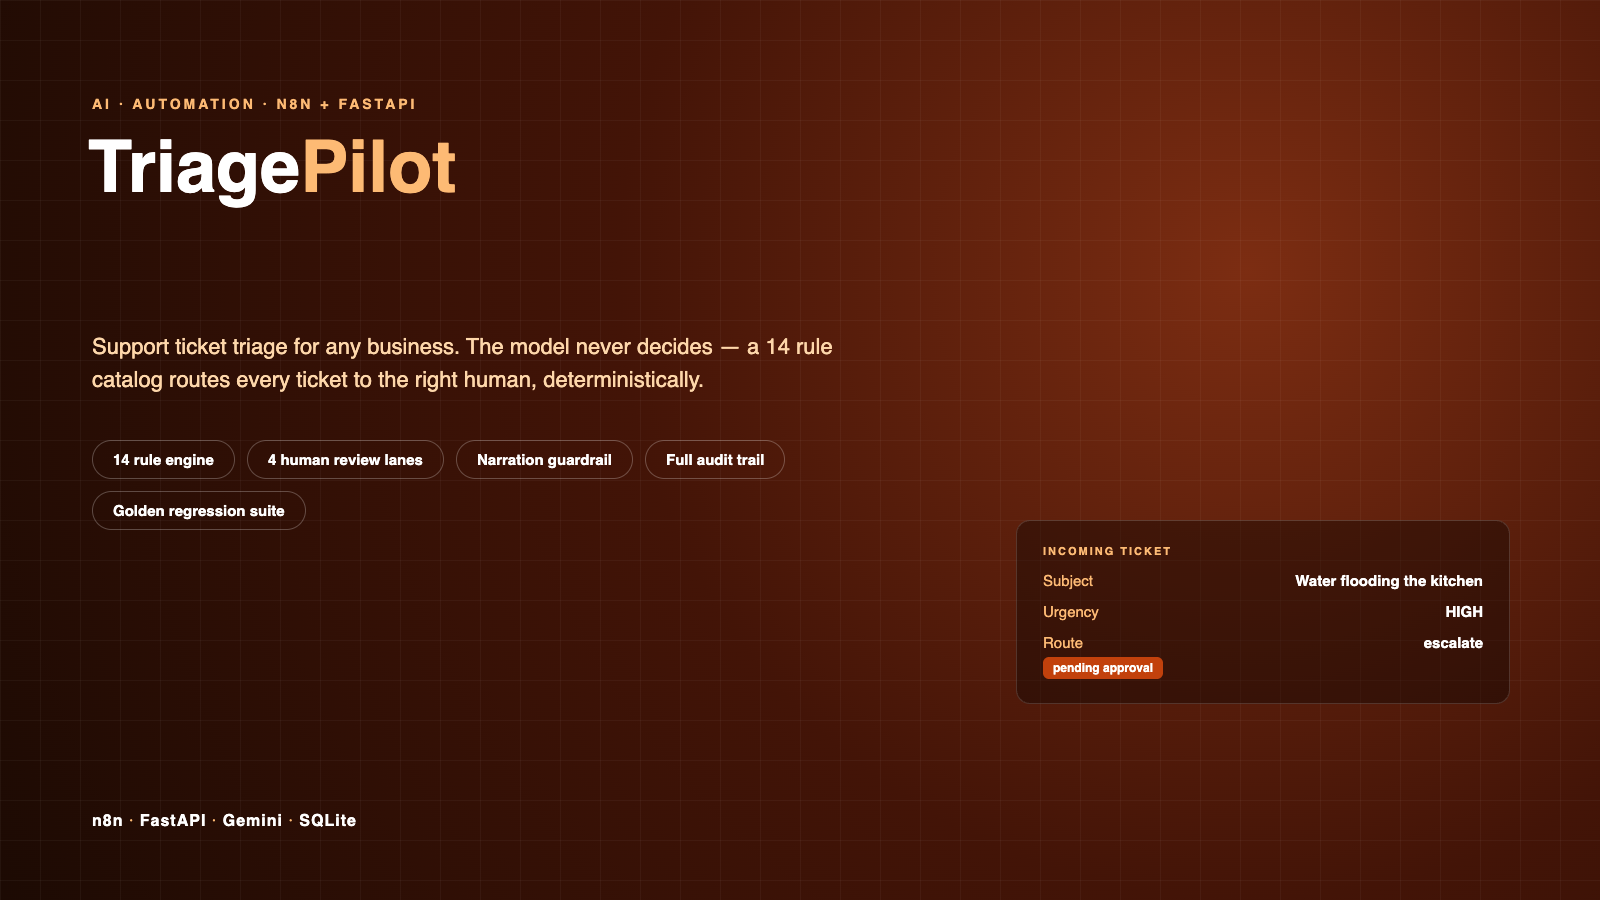
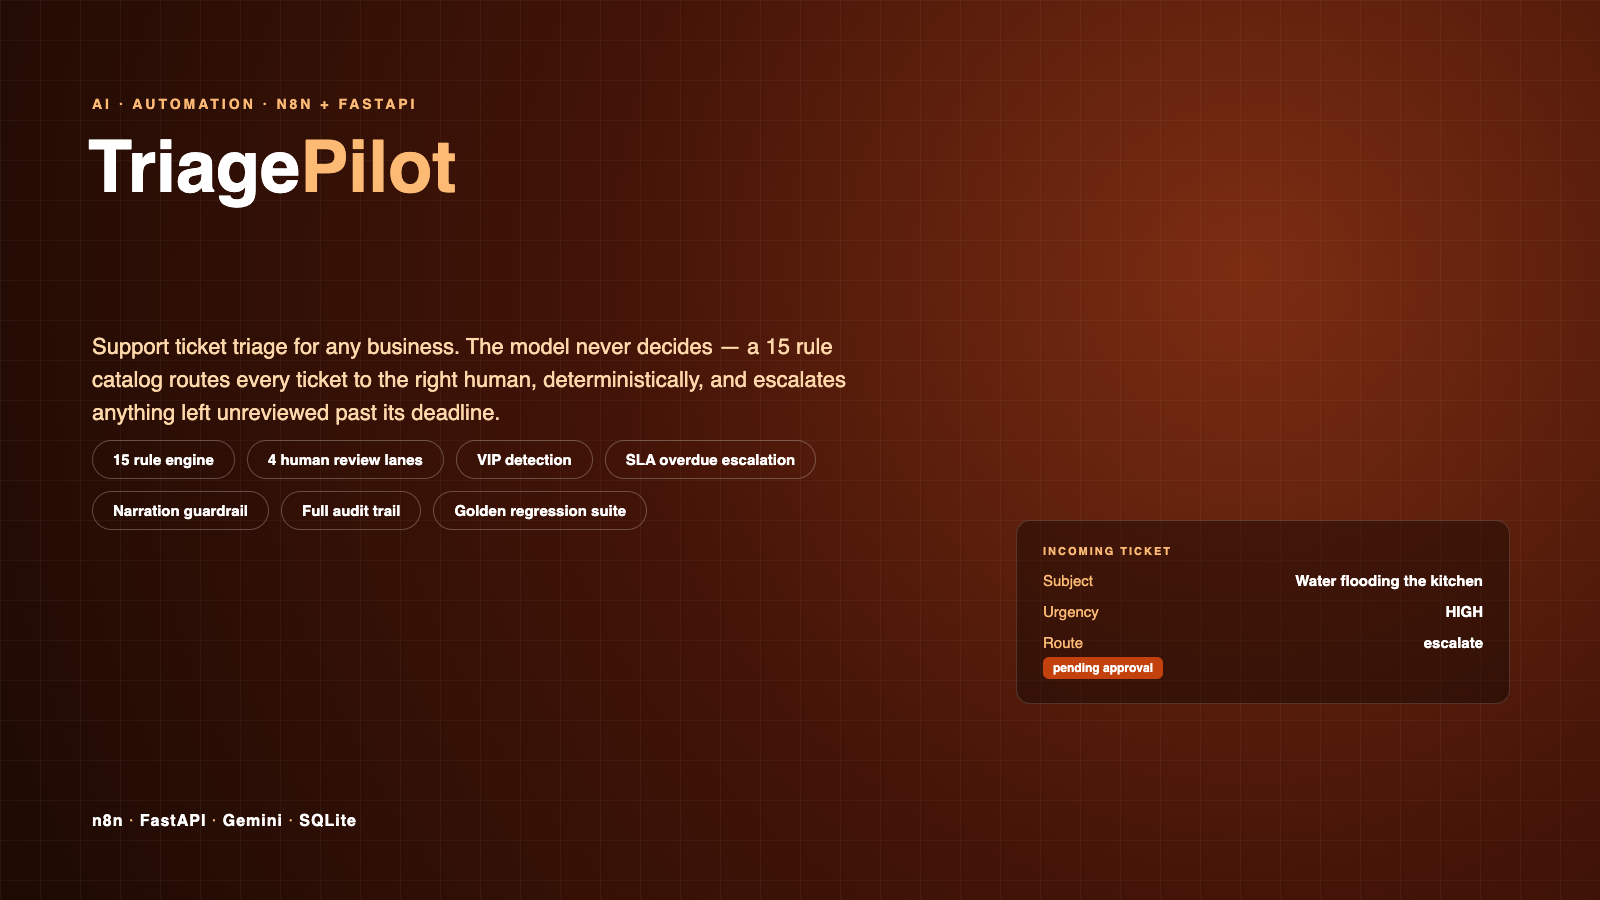
Add VIP customer detection and SLA overdue escalation
New rule V01: a configured VIP email list always gets manager review, deterministic,
same pattern as the other 14 rules. New: every decision gets an SLA deadline by route
(30 min escalate, 4 hr billing/manager review, 24 hr routine); a third n8n trigger, a
Schedule Trigger every 15 minutes, checks GET /overdue and escalates what a human
hasn't reviewed in time via POST /escalate-overdue/{ticket_id}.

17 tests passing (was 11). n8n workflow now 32 nodes (26 functional + 6 sticky notes),
three real entry points on one canvas. Cover and ERD regenerated from the real schema.

diff --git a/docs/erd-real.html b/docs/erd-real.html
@@ -17,7 +17,7 @@
 </style></head>
 <body>
   <div class="title">TriagePilot <span>&mdash; database schema</span></div>
-  <div class="subtitle">Auto-generated from the live schema (app/store.py) &middot; 4 tables &middot; 27 columns</div>
+  <div class="subtitle">Auto-generated from the live schema (app/store.py) &middot; 4 tables &middot; 28 columns</div>
   <svg width="1600" height="900"><defs><marker id="arrow" markerWidth="8" markerHeight="8" refX="6" refY="3" orient="auto"><path d="M0,0 L6,3 L0,6 Z" fill="#c2410c"/></marker></defs><line x1="430" y1="154" x2="50" y2="154" stroke="#c2410c" stroke-width="2" stroke-dasharray="4 3" marker-end="url(#arrow)"/><line x1="810" y1="154" x2="50" y2="154" stroke="#c2410c" stroke-width="2" stroke-dasharray="4 3" marker-end="url(#arrow)"/><line x1="810" y1="514" x2="50" y2="154" stroke="#c2410c" stroke-width="2" stroke-dasharray="4 3" marker-end="url(#arrow)"/></svg>
-  <div class="table-card" id="tbl-tickets" style="left:40px;top:120px"><div class="table-header">tickets</div><div class="row"><span class="badge pk">PK</span><span class="col-name">ticket_id</span><span class="col-type">text</span></div><div class="row"><span class="badge "></span><span class="col-name">customer_name</span><span class="col-type">text</span></div><div class="row"><span class="badge "></span><span class="col-name">customer_email</span><span class="col-type">text</span></div><div class="row"><span class="badge "></span><span class="col-name">subject</span><span class="col-type">text</span></div><div class="row"><span class="badge "></span><span class="col-name">message</span><span class="col-type">text</span></div><div class="row"><span class="badge "></span><span class="col-name">received_at</span><span class="col-type">text</span></div></div><div class="table-card" id="tbl-decisions" style="left:420px;top:120px"><div class="table-header">decisions</div><div class="row"><span class="badge pk">PK</span><span class="col-name">ticket_id</span><span class="col-type">text</span></div><div class="row"><span class="badge "></span><span class="col-name">urgency</span><span class="col-type">text</span></div><div class="row"><span class="badge "></span><span class="col-name">topic</span><span class="col-type">text</span></div><div class="row"><span class="badge "></span><span class="col-name">route</span><span class="col-type">text</span></div><div class="row"><span class="badge "></span><span class="col-name">draft_reply</span><span class="col-type">text</span></div><div class="row"><span class="badge "></span><span class="col-name">confidence</span><span class="col-type">real</span></div><div class="row"><span class="badge "></span><span class="col-name">reason_codes</span><span class="col-type">text</span></div><div class="row"><span class="badge "></span><span class="col-name">status</span><span class="col-type">text</span></div><div class="row"><span class="badge "></span><span class="col-name">created_at</span><span class="col-type">text</span></div></div><div class="table-card" id="tbl-rule_results" style="left:800px;top:120px"><div class="table-header">rule_results</div><div class="row"><span class="badge pk">PK</span><span class="col-name">id</span><span class="col-type">integer</span></div><div class="row"><span class="badge fk">FK</span><span class="col-name">ticket_id</span><span class="col-type">text</span></div><div class="row"><span class="badge "></span><span class="col-name">rule_id</span><span class="col-type">text</span></div><div class="row"><span class="badge "></span><span class="col-name">category</span><span class="col-type">text</span></div><div class="row"><span class="badge "></span><span class="col-name">status</span><span class="col-type">text</span></div><div class="row"><span class="badge "></span><span class="col-name">message</span><span class="col-type">text</span></div><div class="row"><span class="badge "></span><span class="col-name">reason_code</span><span class="col-type">text</span></div></div><div class="table-card" id="tbl-human_reviews" style="left:800px;top:480px"><div class="table-header">human_reviews</div><div class="row"><span class="badge pk">PK</span><span class="col-name">id</span><span class="col-type">integer</span></div><div class="row"><span class="badge fk">FK</span><span class="col-name">ticket_id</span><span class="col-type">text</span></div><div class="row"><span class="badge "></span><span class="col-name">action</span><span class="col-type">text</span></div><div class="row"><span class="badge "></span><span class="col-name">note</span><span class="col-type">text</span></div><div class="row"><span class="badge "></span><span class="col-name">reviewed_at</span><span class="col-type">text</span></div></div>
+  <div class="table-card" id="tbl-tickets" style="left:40px;top:120px"><div class="table-header">tickets</div><div class="row"><span class="badge pk">PK</span><span class="col-name">ticket_id</span><span class="col-type">text</span></div><div class="row"><span class="badge "></span><span class="col-name">customer_name</span><span class="col-type">text</span></div><div class="row"><span class="badge "></span><span class="col-name">customer_email</span><span class="col-type">text</span></div><div class="row"><span class="badge "></span><span class="col-name">subject</span><span class="col-type">text</span></div><div class="row"><span class="badge "></span><span class="col-name">message</span><span class="col-type">text</span></div><div class="row"><span class="badge "></span><span class="col-name">received_at</span><span class="col-type">text</span></div></div><div class="table-card" id="tbl-decisions" style="left:420px;top:120px"><div class="table-header">decisions</div><div class="row"><span class="badge pk">PK</span><span class="col-name">ticket_id</span><span class="col-type">text</span></div><div class="row"><span class="badge "></span><span class="col-name">urgency</span><span class="col-type">text</span></div><div class="row"><span class="badge "></span><span class="col-name">topic</span><span class="col-type">text</span></div><div class="row"><span class="badge "></span><span class="col-name">route</span><span class="col-type">text</span></div><div class="row"><span class="badge "></span><span class="col-name">draft_reply</span><span class="col-type">text</span></div><div class="row"><span class="badge "></span><span class="col-name">confidence</span><span class="col-type">real</span></div><div class="row"><span class="badge "></span><span class="col-name">reason_codes</span><span class="col-type">text</span></div><div class="row"><span class="badge "></span><span class="col-name">status</span><span class="col-type">text</span></div><div class="row"><span class="badge "></span><span class="col-name">created_at</span><span class="col-type">text</span></div><div class="row"><span class="badge "></span><span class="col-name">sla_deadline</span><span class="col-type">text</span></div></div><div class="table-card" id="tbl-rule_results" style="left:800px;top:120px"><div class="table-header">rule_results</div><div class="row"><span class="badge pk">PK</span><span class="col-name">id</span><span class="col-type">integer</span></div><div class="row"><span class="badge fk">FK</span><span class="col-name">ticket_id</span><span class="col-type">text</span></div><div class="row"><span class="badge "></span><span class="col-name">rule_id</span><span class="col-type">text</span></div><div class="row"><span class="badge "></span><span class="col-name">category</span><span class="col-type">text</span></div><div class="row"><span class="badge "></span><span class="col-name">status</span><span class="col-type">text</span></div><div class="row"><span class="badge "></span><span class="col-name">message</span><span class="col-type">text</span></div><div class="row"><span class="badge "></span><span class="col-name">reason_code</span><span class="col-type">text</span></div></div><div class="table-card" id="tbl-human_reviews" style="left:800px;top:480px"><div class="table-header">human_reviews</div><div class="row"><span class="badge pk">PK</span><span class="col-name">id</span><span class="col-type">integer</span></div><div class="row"><span class="badge fk">FK</span><span class="col-name">ticket_id</span><span class="col-type">text</span></div><div class="row"><span class="badge "></span><span class="col-name">action</span><span class="col-type">text</span></div><div class="row"><span class="badge "></span><span class="col-name">note</span><span class="col-type">text</span></div><div class="row"><span class="badge "></span><span class="col-name">reviewed_at</span><span class="col-type">text</span></div></div>
 </body></html>

diff --git a/docs/cover.html b/docs/cover.html
@@ -25,11 +25,14 @@
   <div class="grid"></div>
   <div class="eyebrow">AI &middot; AUTOMATION &middot; N8N + FASTAPI</div>
   <h1>Triage<span class="accent">Pilot</span></h1>
-  <div class="tagline">Support ticket triage for any business. The model never decides &mdash; a 14 rule
-    catalog routes every ticket to the right human, deterministically.</div>
+  <div class="tagline">Support ticket triage for any business. The model never decides &mdash; a 15 rule
+    catalog routes every ticket to the right human, deterministically, and escalates
+    anything left unreviewed past its deadline.</div>
   <div class="pills">
-    <div class="pill">14 rule engine</div>
+    <div class="pill">15 rule engine</div>
     <div class="pill">4 human review lanes</div>
+    <div class="pill">VIP detection</div>
+    <div class="pill">SLA overdue escalation</div>
     <div class="pill">Narration guardrail</div>
     <div class="pill">Full audit trail</div>
     <div class="pill">Golden regression suite</div>

diff --git a/app/store.py b/app/store.py
@@ -31,7 +31,8 @@ CREATE TABLE IF NOT EXISTS decisions (
     confidence REAL NOT NULL,
     reason_codes TEXT NOT NULL,
     status TEXT NOT NULL DEFAULT 'pending approval',
-    created_at TEXT NOT NULL
+    created_at TEXT NOT NULL,
+    sla_deadline TEXT NOT NULL DEFAULT ''
 );
 CREATE TABLE IF NOT EXISTS rule_results (
     id INTEGER PRIMARY KEY AUTOINCREMENT,
@@ -77,8 +78,8 @@ def save_ticket(ticket_id: str, ticket: Ticket) -> None:
 def save_decision(decision: Decision) -> None:
     with _connect() as conn:
         conn.execute(
-            "INSERT OR REPLACE INTO decisions (ticket_id, urgency, topic, route, draft_reply, confidence, reason_codes, created_at) "
-            "VALUES (?, ?, ?, ?, ?, ?, ?, ?)",
+            "INSERT OR REPLACE INTO decisions (ticket_id, urgency, topic, route, draft_reply, confidence, reason_codes, created_at, sla_deadline) "
+            "VALUES (?, ?, ?, ?, ?, ?, ?, ?, ?)",
             (
                 decision.ticket_id,
                 decision.urgency.value,
@@ -88,6 +89,7 @@ def save_decision(decision: Decision) -> None:
                 decision.confidence,
                 ",".join(decision.reason_codes),
                 decision.created_at,
+                decision.sla_deadline,
             ),
         )
         for r in decision.rule_results:
@@ -124,3 +126,21 @@ def get_decision(ticket_id: str) -> dict | None:
     with _connect() as conn:
         row = conn.execute("SELECT * FROM decisions WHERE ticket_id = ?", (ticket_id,)).fetchone()
         return dict(row) if row else None
+
+
+def get_overdue(now: datetime | None = None) -> list[dict]:
+    """Decisions still pending approval whose SLA deadline has already passed. The
+    third n8n trigger (a Schedule Trigger) polls this to escalate what a human hasn't
+    looked at in time."""
+    now = now or datetime.now(timezone.utc)
+    with _connect() as conn:
+        rows = conn.execute(
+            "SELECT * FROM decisions WHERE status = 'pending approval' AND sla_deadline != '' AND sla_deadline < ?",
+            (now.isoformat(),),
+        ).fetchall()
+        return [dict(r) for r in rows]
+
+
+def mark_escalated_overdue(ticket_id: str) -> None:
+    with _connect() as conn:
+        conn.execute("UPDATE decisions SET status = 'escalated overdue' WHERE ticket_id = ?", (ticket_id,))

diff --git a/app/main.py b/app/main.py
@@ -17,8 +17,8 @@ from app.llm.draft import draft_reply, guard_draft
 from app.llm.extract import extract_signals
 from app.models import Decision, HumanReview, Ticket
 from app.rules.catalog import CATALOG
-from app.rules.engine import decide_route, decide_urgency, run_rules
-from app.store import get_decision, had_recent_contact, save_decision, save_human_review, save_ticket
+from app.rules.engine import decide_route, decide_urgency, run_rules, sla_deadline
+from app.store import get_decision, get_overdue, had_recent_contact, mark_escalated_overdue, save_decision, save_human_review, save_ticket
 
 app = FastAPI(title="TriagePilot")
 
@@ -63,6 +63,7 @@ def triage(ticket: Ticket, x_service_key: Optional[str] = Header(default=None)) 
         confidence=signals.extraction_confidence,
         reason_codes=sorted(flagged),
         rule_results=rule_results,
+        sla_deadline=sla_deadline(route),
     )
     decision.draft_reply = guard_draft(draft, decision)
     save_decision(decision)
@@ -78,6 +79,23 @@ def human_review(ticket_id: str, review: HumanReview, x_service_key: Optional[st
         raise HTTPException(status_code=404, detail="no decision for that ticket_id")
     save_human_review(review)
     return {"ticket_id": ticket_id, "status": get_decision(ticket_id)["status"]}
+
+
+@app.get("/overdue")
+def overdue(x_service_key: Optional[str] = Header(default=None)) -> dict:
+    """Decisions still awaiting a human past their SLA deadline. The n8n Schedule
+    Trigger calls this, then escalates whatever comes back."""
+    _check_key(x_service_key)
+    return {"overdue": get_overdue()}
+
+
+@app.post("/escalate-overdue/{ticket_id}")
+def escalate_overdue(ticket_id: str, x_service_key: Optional[str] = Header(default=None)) -> dict:
+    _check_key(x_service_key)
+    if get_decision(ticket_id) is None:
+        raise HTTPException(status_code=404, detail="no decision for that ticket_id")
+    mark_escalated_overdue(ticket_id)
+    return {"ticket_id": ticket_id, "status": "escalated overdue"}
 
 
 @app.get("/golden/run")

diff --git a/app/rules/engine.py b/app/rules/engine.py
@@ -1,15 +1,28 @@
 """Deterministic decision engine. Runs the rule catalog and turns the results into a
-route and an urgency. The routing is transparent and rule driven; the LLM's only job
-elsewhere is to extract signals and draft a reply, never to decide either one.
+route, an urgency, and an SLA deadline. The routing is transparent and rule driven;
+the LLM's only job elsewhere is to extract signals and draft a reply, never to decide
+any of this.
 """
 
 from __future__ import annotations
 
+from datetime import datetime, timedelta, timezone
+
 from app.models import ExtractedSignals, Route, RuleResult, Status, Ticket, Urgency
 from app.rules.catalog import CATALOG
 
+# How long a ticket may sit in each lane before it counts as overdue. An emergency
+# that nobody has looked at in 30 minutes is a real operational failure worth
+# surfacing automatically, the same reasoning as any support SLA.
+_SLA_MINUTES = {
+    Route.ESCALATE: 30,
+    Route.BILLING_REVIEW: 240,
+    Route.MANAGER_REVIEW: 240,
+    Route.AUTO_DRAFT: 1440,
+}
+
 _ESCALATE_RULES = {"E01", "E02"}
-_MANAGER_RULES = {"L01", "L02", "R01", "C01", "C02"}
+_MANAGER_RULES = {"L01", "L02", "R01", "C01", "C02", "V01"}
 _BILLING_RULES = {"M01", "M02", "M03", "M04"}
 _TONE_RULES = {"S01", "S02"}
 
@@ -49,3 +62,8 @@ def decide_urgency(flagged_ids: set[str]) -> Urgency:
     if flagged_ids & (_MANAGER_RULES | _BILLING_RULES) or len(flagged_ids & _TONE_RULES) == 2:
         return Urgency.MEDIUM
     return Urgency.LOW
+
+
+def sla_deadline(route: Route, now: datetime | None = None) -> str:
+    now = now or datetime.now(timezone.utc)
+    return (now + timedelta(minutes=_SLA_MINUTES[route])).isoformat()

diff --git a/tests/test_rules.py b/tests/test_rules.py
@@ -61,3 +61,25 @@ def test_escalate_outranks_billing_in_the_same_ticket():
     t = _ticket(message="Emergency! Also please refund the $200 I was overcharged.")
     flagged = {r.rule_id for r in run_rules(t, _signals(mentions_emergency=True, mentions_money=True), repeat_contact=False) if r.status.value == "flag"}
     assert decide_route(flagged).value == "escalate"
+
+
+def test_vip_customer_always_gets_manager_review(monkeypatch):
+    from app.config import get_settings
+
+    monkeypatch.setenv("VIP_EMAILS", "vip@example.com, other@example.com")
+    get_settings.cache_clear()
+    t = _ticket(customer_email="VIP@example.com")  # case should not matter
+    flagged = {r.rule_id for r in run_rules(t, _signals(), repeat_contact=False) if r.status.value == "flag"}
+    assert "V01" in flagged
+    assert decide_route(flagged).value == "manager_review"
+    get_settings.cache_clear()
+
+
+def test_non_vip_customer_is_not_flagged(monkeypatch):
+    from app.config import get_settings
+
+    monkeypatch.setenv("VIP_EMAILS", "vip@example.com")
+    get_settings.cache_clear()
+    flagged = {r.rule_id for r in run_rules(_ticket(), _signals(), repeat_contact=False) if r.status.value == "flag"}
+    assert "V01" not in flagged
+    get_settings.cache_clear()

diff --git a/app/rules/catalog.py b/app/rules/catalog.py
@@ -135,6 +135,15 @@ def _t01_topic_in_catalog(t: Ticket, s: ExtractedSignals, repeat: bool) -> "tupl
     return _ok()
 
 
+def _v01_vip_customer(t: Ticket, s: ExtractedSignals, repeat: bool) -> "tuple[Status, str]":
+    from app.config import get_settings
+
+    vip_list = {e.strip().lower() for e in get_settings().vip_emails.split(",") if e.strip()}
+    if t.customer_email.lower() in vip_list:
+        return _flag("Customer is on the configured VIP list.")
+    return _ok()
+
+
 CATALOG: list[Rule] = [
     Rule("E01", "emergency", "Explicit emergency language in the ticket text", "emergency_keyword", _e01_emergency_keywords),
     Rule("E02", "emergency", "Model read the ticket as describing an emergency", "emergency_signal", _e02_emergency_signal),
@@ -150,4 +159,5 @@ CATALOG: list[Rule] = [
     Rule("S01", "tone", "Model read the tone as angry", "angry_tone", _s01_angry_tone),
     Rule("S02", "tone", "All caps or repeated punctuation in the message", "shouting", _s02_shouting),
     Rule("T01", "topic", "Topic guess outside the configured category list", "topic_out_of_catalog", _t01_topic_in_catalog),
+    Rule("V01", "vip", "Customer is on the configured VIP list", "vip_customer", _v01_vip_customer),
 ]

diff --git a/tests/test_api.py b/tests/test_api.py
@@ -15,7 +15,7 @@ def test_rules_endpoint_lists_the_whole_catalog_with_no_key_needed():
     assert resp.status_code == 200
     rule_ids = {r["rule_id"] for r in resp.json()}
     assert "E01" in rule_ids and "R01" in rule_ids
-    assert len(rule_ids) == 14
+    assert len(rule_ids) == 15
 
 
 def test_triage_rejects_a_missing_or_wrong_service_key():
@@ -36,3 +36,15 @@ def test_human_review_rejects_mismatched_ticket_id():
         headers={"x-service-key": "test-key"},
     )
     assert resp.status_code == 400
+
+
+def test_overdue_needs_a_key_and_starts_empty_on_a_fresh_database():
+    assert client.get("/overdue").status_code == 401
+    resp = client.get("/overdue", headers={"x-service-key": "test-key"})
+    assert resp.status_code == 200
+    assert isinstance(resp.json()["overdue"], list)
+
+
+def test_escalate_overdue_404s_for_an_unknown_ticket():
+    resp = client.post("/escalate-overdue/does-not-exist", headers={"x-service-key": "test-key"})
+    assert resp.status_code == 404

diff --git a/tests/test_sla.py b/tests/test_sla.py
@@ -1,0 +1,19 @@
+from datetime import datetime, timedelta, timezone
+
+from app.models import Route
+from app.rules.engine import sla_deadline
+
+
+def test_escalate_has_the_shortest_deadline():
+    now = datetime(2026, 1, 1, tzinfo=timezone.utc)
+    deadlines = {route: datetime.fromisoformat(sla_deadline(route, now)) for route in Route}
+    assert deadlines[Route.ESCALATE] == now + timedelta(minutes=30)
+    assert deadlines[Route.ESCALATE] < deadlines[Route.BILLING_REVIEW]
+    assert deadlines[Route.ESCALATE] < deadlines[Route.MANAGER_REVIEW]
+    assert deadlines[Route.ESCALATE] < deadlines[Route.AUTO_DRAFT]
+
+
+def test_auto_draft_has_the_longest_deadline():
+    now = datetime(2026, 1, 1, tzinfo=timezone.utc)
+    deadlines = {route: datetime.fromisoformat(sla_deadline(route, now)) for route in Route}
+    assert deadlines[Route.AUTO_DRAFT] == max(deadlines.values())

diff --git a/app/config.py b/app/config.py
@@ -29,6 +29,8 @@ class Settings:
         self.business_name: str = os.getenv("BUSINESS_NAME", "Bright Smile Dental")
         self.business_type: str = os.getenv("BUSINESS_TYPE", "a dental clinic")
         self.categories: str = os.getenv("CATEGORIES", "appointments,billing,insurance,general,other")
+        # Comma separated emails that always get manager review, regardless of what the rules find.
+        self.vip_emails: str = os.getenv("VIP_EMAILS", "")
 
 
 @lru_cache

diff --git a/app/models.py b/app/models.py
@@ -66,6 +66,7 @@ class Decision(BaseModel):
     reason_codes: list[str]
     rule_results: list[RuleResult]
     created_at: str = Field(default_factory=lambda: datetime.now(timezone.utc).isoformat())
+    sla_deadline: str = ""
 
 
 class HumanReview(BaseModel):

diff --git a/README.md b/README.md
@@ -22,9 +22,15 @@ work.
 
 - **The model never decides.** Gemini only extracts signals from the ticket (sentiment,
   whether it mentions an emergency, money, legal risk or a cancellation, and a topic
-  guess), validated against a strict schema. A 14 rule catalog (`app/rules/catalog.py`)
+  guess), validated against a strict schema. A 15 rule catalog (`app/rules/catalog.py`)
   decides urgency and routes the ticket, deterministically. `GET /rules` returns the
   whole catalog for a client to review.
+- **VIP customer detection.** A configured list of emails always gets manager review,
+  regardless of what the other rules find, real and deterministic, not an LLM guess.
+- **SLA overdue escalation.** Every decision gets a deadline based on its route (30
+  minutes for an emergency, 4 hours for billing or manager review, 24 hours for a
+  routine one). A third n8n trigger, a Schedule Trigger polling every 15 minutes,
+  checks `GET /overdue` and escalates whatever a human hasn't looked at in time.
 - **Four human review lanes, not one**, chosen by the rules that fired: `auto_draft`
   (nothing flagged, a quick approval), `escalate` (emergency or safety language),
   `billing_review` (money at stake), `manager_review` (legal risk, a repeat unresolved
@@ -69,7 +75,7 @@ Ticket (n8n webhook)
 python3 -m venv .venv && source .venv/bin/activate
 pip install -r requirements.txt
 cp .env.example .env          # set SERVICE_API_KEY; GEMINI_API_KEY optional in replay mode
-pytest                        # 11 tests incl. the rule engine, the golden gate and API auth
+pytest                        # 17 tests incl. the rule engine, the golden gate, SLA deadlines and API auth
 uvicorn app.main:app --reload --port 8099
 ```
 
@@ -79,8 +85,9 @@ matching recorded cassette in `data/cassettes/` for `replay` mode.
 
 ## n8n workflow
 
-One workflow, two real entry points on the same canvas: the ticket intake webhook, and
-the human review step. See `build-spec.md` for the exact node by node plan. It is built
+One workflow, three real entry points on the same canvas: the ticket intake webhook,
+the human review step, and a Schedule Trigger for SLA overdue escalation. See
+`build-spec.md` for the exact node by node plan. It is built
 directly on the n8n instance through n8n's own MCP server once connected, the same way
 Ember and Oak's sibling projects were, not a blind hand written workflow file.
 
